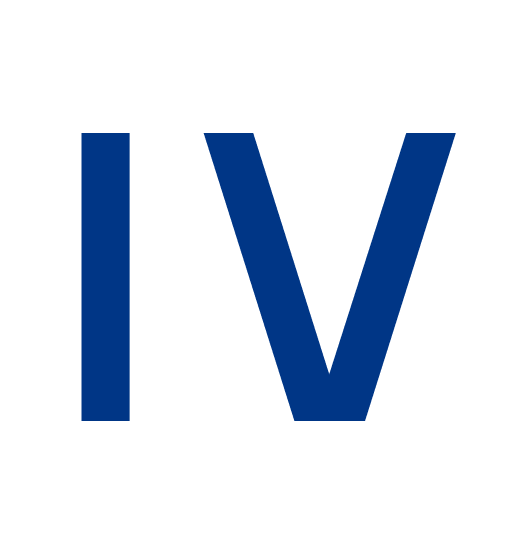
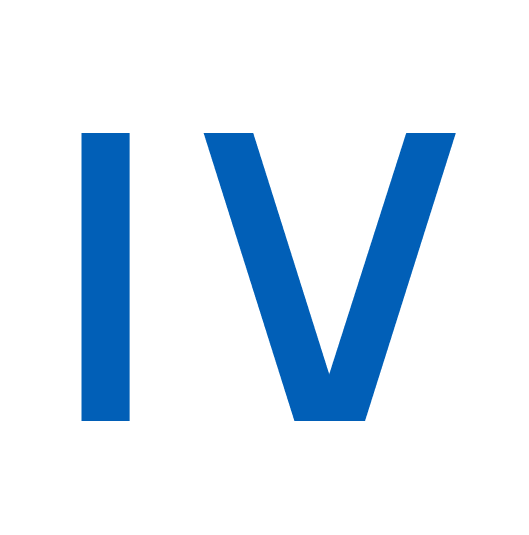
odświeżony wygląd

Changed region(s): [[0.3629, 0.2393, 0.8771, 0.8075], [0.1512, 0.2393, 0.2722, 0.8075]]

diff --git a/public_html/static/styles.css b/public_html/static/styles.css
@@ -2,8 +2,10 @@
 
 @media (prefers-color-scheme: light) {
     :root {
-      --highlight-1: rgb(252, 141, 207);
-      --text-50: #eae9fc;
+      --highlight-1: #ffffff;
+      --highlight-2: #015fb7;
+      --text-0: #015fb7;
+      --text-50: #000000;
       --text-100: #d4d2f9;
       --text-200: #a9a5f3;
       --text-300: #7e78ed;
@@ -13,7 +15,7 @@
       --text-700: #181287;
       --text-800: #100c5a;
       --text-900: #000000;
-      --text-950: #000000;
+      --text-950: #272829;
   
       --background-50: #f2f2f2;
       --background-100: #e6e6e6;
@@ -67,8 +69,10 @@
   }
   @media (prefers-color-scheme: dark) {
     :root {
-      --highlight-1: rgba(218, 76, 157, 0.75);
-      --text-50: #040316;
+      --highlight-1: #015fb7;
+      --highlight-2: rgba(255, 255, 255, 0);
+      --text-0: #ffffff;
+      --text-50: #f6f6f6;
       --text-100: #08062d;
       --text-200: #100c5a;
       --text-300: #181287;
@@ -82,7 +86,7 @@
   
       --background-50: #0d0d0d;
       --background-100: #1a1a1a;
-      --background-200: #272829;
+      --background-200: rgb(39, 40, 41);
       --background-300: #4d4d4d;
       --background-400: #666666;
       --background-500: #808080;
@@ -171,22 +175,23 @@ main {
 
 
 .home_button {
-  background-color: var(--primary-100);
-  color: var(--text-950);
+  background-color: #015fb7;
+  color: #f6f6f6;
 }
 
 .headerr {
-  background-color: var(--primary-100);
+  background-color: #015fb7;
   border-width: 7px;
   border-style: solid;
-  border-color: var(--primary-200);
+  border-color: #015fb7;
   border-radius: 1em;
-  color: var(--text-950);
+  color: #f6f6f6;
 }
 
 .home {
   padding-left: 1vw;
   padding-right: 1vw;
+  color: #f6f6f6;
 }
 
 footer {
@@ -195,29 +200,32 @@ footer {
   margin-top: 2vw;
 }
 mark {
-  color: var(--text-950);
-  background: var(--highlight-1);
+  color: white;
+  background-color: #21c40f;
+  font-weight: 900;
 }
 .przycisk {
-  color: var(--text-900);
-  font-weight: 600;
+  color: #f6f6f6;
+  font-weight: 750;
   border-radius: 1em;
-  background-color: var(--secondary-300);
+  background-color: #015fb7;
   text-align: center;
   display: block;
   padding: 1.55em;
   margin: 0.25em;
+  user-select: none;
 }
 .przycisk_klasy {
-  color: var(--text-900);
-  font-weight: 600;
+  color: #f6f6f6;
+  font-weight: 750;
   border-radius: 1em;
-  background-color: var(--secondary-300);
+  background-color: #015fb7;
   text-align: center;
   display: block;
   padding: 1.55em;
   margin: 0.25em;
-  width: 2vw;
+  width: 1.27em;
+  user-select: none;
 }
 .my-indicator{
   display:none;
@@ -226,8 +234,8 @@ mark {
   margin-right: auto;
   left:0;
   right:0;
-  width: 10vw;
-  height: 10vw;
+  width: 7.5vw;
+  height: 7.5vw;
   text-align: center;
   z-index: 10;
   top:45vh;
@@ -271,46 +279,64 @@ mark {
 }
 
 .tabela_zond:nth-child(even){
-  background-color: var(--background-200);
+  background-color: var(--highlight-1);
+  color: var(--text-50);
 }
 .tabela_zond:nth-child(odd){
-  background-color: var(--accent-200);
+  background-color: var(--highlight-2);
 }
 .tabela_tytul{
   text-align: center;
-  color: var(--text-600);
+  color: var(--text-0);
   font-size: 1.25em;
   border-width: 2px;
 }
 .tabela_komurka{
   text-align: center;
+  padding: 0.5vw;
   padding-left: 1vw;
   padding-right: 1vw;
   border-radius: 0.4em;
 }
 .tabela{
-  width: auto;
   margin: 1vw;
   margin-bottom: 1vw;
+  color: #f6f6f6;
+  font-weight: 600;
 }
 
 .plan_lekcji {
-display: flex;
-flex-direction: column;
-align-items: center;
+  display: flex;
+  flex-direction: column;
+  align-items: center;
+  border-width: 10px;
 }
 
 .tabela_pozostale{
-width: auto;
-margin: 1vw;
-margin-bottom: 1vw;
-border-radius: 0.4em;
-background-color: #e31e1e;
-font-weight: 700;
+  width: auto;
+  margin: 1vw;
+  margin-bottom: 1vw;
+  border-radius: 0.4em;
+  background-color: #e31e1e;
+  font-weight: 700;
 }
 
 .tabela_zond_pozostale{
-background-color: #e31e1e;
-color: #f6f6f6; 
+  background-color: #e31e1e;
+  color: #f6f6f6;
 }
 
+::-webkit-scrollbar {
+  width: 0.75em;
+}
+
+::-webkit-scrollbar-track {
+  border-radius: 10px;
+  margin: 0.5em;
+
+}
+
+::-webkit-scrollbar-thumb {
+  background: #015fb7;
+  border-radius: 10px;
+}

diff --git a/public_html/script.py b/public_html/script.py
@@ -23,7 +23,7 @@ def main():
 def plan(klasa):
     if klasa == "None":
         return "<h1>Wybierz Klasę lub Nauczyciela</h1>"
-    kol = ["NR","Godz","Poniedziałek","Wtorek","Środa","Czwartek","Piątek"]
+    kol = ["Nr","Godz","Poniedziałek","Wtorek","Środa","Czwartek","Piątek"]
     numery = ['1','2','3','4']
     tytul = klasa
     plan, zast = zast_and_plan(klasa)
